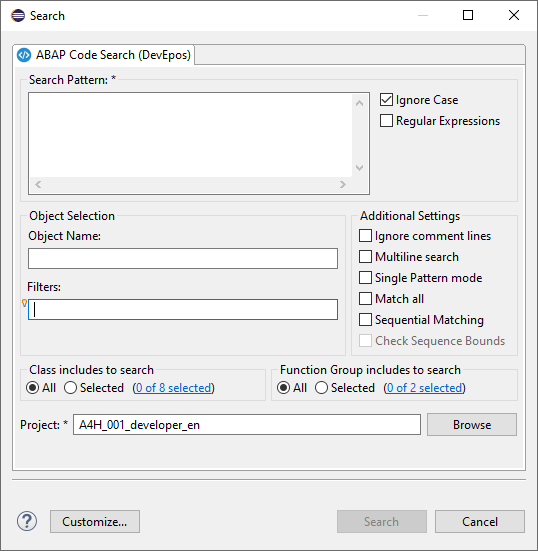
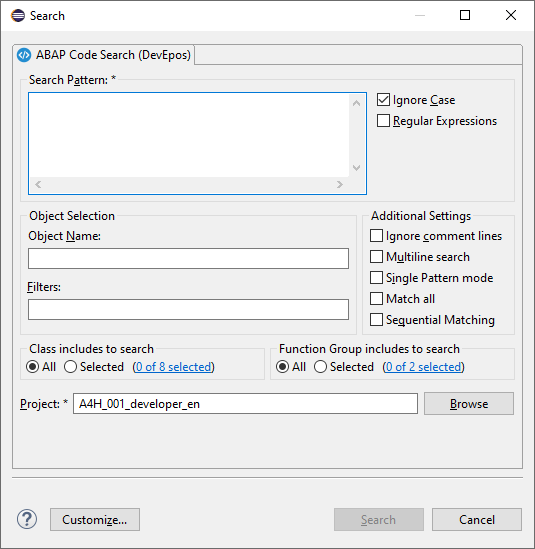
revert(seq-matching): remove "Check Sequence Bounds" setting
The feature is now implemented via inline control sequences in the patterns
so the setting is no longer needed

diff --git a/com.devepos.adt.codesearch.ui/html/code_search/search_dialog.html b/com.devepos.adt.codesearch.ui/html/code_search/search_dialog.html
@@ -204,19 +204,19 @@
 			considering their order. <br>If this checkbox is not set the
 			system will execute an OR search between all lines of the pattern
 			individually</li>
-		<li><em>Sequential Matching</em> <br> Checkbox is only
-			relevant if the pattern contains more than one line. If this checkbox
-			is set the system will search for source code files which contain all
-			patterns listed in the search pattern text area <b>considering
-				their order</b>. <br>If this checkbox is not set the system will
-			execute an OR search between all lines of the pattern individually</li>
-		<li><em>Check Seqeuence Bounds</em> <br>This setting is only
-			relevant for <em>Sequential Matching</em>.<br> If enabled the
-			first and last given pattern will set the range in the source code
-			where the patterns between have to occur.</li>
+		<li><a href="special_search_modes.html" class="link"><em>Sequential
+					Matching</em></a> <br> Checkbox is only relevant if the pattern
+			contains more than one line. If this checkbox is set the system will
+			search for source code files which contain all patterns listed in the
+			search pattern text area <b>considering their order</b>. <br>If
+			this checkbox is not set the system will execute an OR search between
+			all lines of the pattern individually</li>
 	</ul>
 
-	<h3>Related Information</h3>
+	<h3 class="heading">Related Information</h3>
+	<div>
+		<a class="link" href="special_search_modes.html">Special Search Modes</a>
+	</div>
 	<div>
 		<a class="link" href="search_result.html">Search Result</a>
 	</div>

diff --git a/com.devepos.adt.codesearch.ui/html/code_search/special_search_modes.html b/com.devepos.adt.codesearch.ui/html/code_search/special_search_modes.html
@@ -1,0 +1,22 @@
+<!DOCTYPE html>
+<html id="doc-page">
+<head>
+<link rel="stylesheet" type="text/css" href="../../css/main.css" />
+<meta http-equiv="Content-Type" content="text/html; charset=utf-8" />
+<title>Special Search Modes</title>
+</head>
+<body id="doc-body">
+	<h2 class="heading">Special Search Modes</h2>
+	<h3 class="heading">Sequential Matching</h3>
+	<p>
+		To allow even more refined searches you can enable the setting <em>Sequential
+			Matching</em> in the <em>Search
+			Dialog</em><br><br> TODO
+	</p>
+
+	<h3 class="heading">Related Information</h3>
+	<div>
+		<a class="link" href="search_dialog.html">Search Dialog</a>
+	</div>
+</body>
+</html>

diff --git a/com.devepos.adt.codesearch.ui/src/com/devepos/adt/cst/ui/internal/codesearch/CodeSearchDialog.java b/com.devepos.adt.codesearch.ui/src/com/devepos/adt/cst/ui/internal/codesearch/CodeSearchDialog.java
@@ -74,7 +74,6 @@ public class CodeSearchDialog extends DialogPage implements ISearchPage,
   private Button matchAllPatterns;
   private Button ignoreCommentLinesCheck;
   private Button sequentialMatchingCheck;
-  private Button sequenceBoundsOption;
   private IncludeFlagsRadioButtonGroup classIncludeConfigGroup;
   private IncludeFlagsRadioButtonGroup fugrIncludeConfigGroup;
 
@@ -187,7 +186,6 @@ public class CodeSearchDialog extends DialogPage implements ISearchPage,
     ignoreCommentLinesCheck.setSelection(querySpecs.isIgnoreCommentLines());
     ignoreCaseCheck.setSelection(querySpecs.isIgnoreCaseCheck());
     sequentialMatchingCheck.setSelection(querySpecs.isSequentialMatching());
-    sequenceBoundsOption.setSelection(querySpecs.isCheckSequenceBounds());
 
     updateOptionEnabledment();
 
@@ -217,7 +215,6 @@ public class CodeSearchDialog extends DialogPage implements ISearchPage,
     querySpecs.setObjectScopeFilters(filterHandler.getSearchFiltersAsStringMap(
         objectScopeFilterText, FilterName.getContentAssistToUriParamNameMap(), ","),
         objectScopeFilterText);
-    querySpecs.setCheckSequenceBounds(sequenceBoundsOption.getSelection());
     querySpecs.setIgnoreCaseCheck(ignoreCaseCheck.getSelection());
     querySpecs.setIgnoreCommentLines(ignoreCommentLinesCheck.getSelection());
     querySpecs.setObjectNames(objectNameInput.getText());
@@ -258,16 +255,6 @@ public class CodeSearchDialog extends DialogPage implements ISearchPage,
     sequentialMatchingCheck.setToolTipText(
         Messages.CodeSearchDialog_seqeuentialMatchingOption_xtol);
     sequentialMatchingCheck.addSelectionListener(widgetSelectedAdapter(e -> {
-      updateOptionSelection();
-      updateOptionEnabledment();
-    }));
-
-    sequenceBoundsOption = new Button(group, SWT.CHECK);
-    sequenceBoundsOption.setEnabled(false);
-    sequenceBoundsOption.setText(Messages.CodeSearchDialog_checkSequenceBoundsOption_xchk);
-    sequenceBoundsOption.setToolTipText(
-        Messages.CodeSearchDialog_checkSequenceBoundsOption_xtol);
-    sequenceBoundsOption.addSelectionListener(widgetSelectedAdapter(e -> {
       updateOptionSelection();
       updateOptionEnabledment();
     }));
@@ -542,7 +529,6 @@ public class CodeSearchDialog extends DialogPage implements ISearchPage,
     boolean isSequentialMatching = sequentialMatchingCheck.getSelection();
 
     singlePattern.setEnabled(!isSequentialMatching);
-    sequenceBoundsOption.setEnabled(isSequentialMatching);
     sequentialMatchingCheck.setEnabled(!isSinglePattern);
 
     if (!isSinglePattern && !isSequentialMatching) {

diff --git a/com.devepos.adt.codesearch.ui/src/com/devepos/adt/cst/ui/internal/codesearch/CodeSearchQuerySpecification.java b/com.devepos.adt.codesearch.ui/src/com/devepos/adt/cst/ui/internal/codesearch/CodeSearchQuerySpecification.java
@@ -36,7 +36,6 @@ public class CodeSearchQuerySpecification {
   private boolean matchAllPatterns;
   private boolean sequentialMatching;
   private boolean multilineSearchOption;
-  private boolean checkSequenceBounds;
 
   private boolean readPackageHierarchy;
 
@@ -84,9 +83,6 @@ public class CodeSearchQuerySpecification {
     }
     if (sequentialMatching) {
       uriParameters.put(SearchParameter.SEQUENTIAL_MATCHING.getUriName(), true);
-      if (checkSequenceBounds) {
-        uriParameters.put(SearchParameter.CHECK_SEQUENCE_BOUNDS.getUriName(), true);
-      }
     }
     uriParameters.put(SearchParameter.CLASS_INCLUDES.getUriName(), getClassIncludesParam()
         .getUriParamValue());
@@ -171,10 +167,6 @@ public class CodeSearchQuerySpecification {
     return restrictString ? getShortQueryString() : getLongQueryString();
   }
 
-  public boolean isCheckSequenceBounds() {
-    return checkSequenceBounds;
-  }
-
   public boolean isIgnoreCaseCheck() {
     return ignoreCaseCheck;
   }
@@ -208,10 +200,6 @@ public class CodeSearchQuerySpecification {
 
   public boolean isUseRegExp() {
     return useRegExp;
-  }
-
-  public void setCheckSequenceBounds(boolean checkSequenceBounds) {
-    this.checkSequenceBounds = checkSequenceBounds;
   }
 
   public void setClassIncludesParam(final IncludeFlagsParameter classIncludesParam) {
@@ -324,7 +312,7 @@ public class CodeSearchQuerySpecification {
       query.append(Messages.CodeSearchQuerySpecification_patternQueryPart_xtol);
       query.append("\n   ");
       query.append(singlePattern ? patterns.replaceAll(Text.DELIMITER, ESCAPED_LINE_BREAK_STR)
-          : patterns.replaceAll(Text.DELIMITER, ","));
+          : patterns.replaceAll(Text.DELIMITER, ",\n   "));
       if (!StringUtil.isBlank(objectNames)) {
         query.append("\n");
         query.append(Messages.CodeSearchQuerySpecification_objectNameQueryPart_xtol);

diff --git a/com.devepos.adt.codesearch.ui/src/com/devepos/adt/cst/ui/internal/codesearch/SearchParameter.java b/com.devepos.adt.codesearch.ui/src/com/devepos/adt/cst/ui/internal/codesearch/SearchParameter.java
@@ -12,8 +12,7 @@ public enum SearchParameter {
   SINGLE_PATTERN("singlePattern"),
   SCOPE_ID("scopeId"),
   SCOPE_OFFSET("scopeOffset"),
-  SEQUENTIAL_MATCHING("seqMatching"),
-  CHECK_SEQUENCE_BOUNDS("checkSeqBounds");
+  SEQUENTIAL_MATCHING("seqMatching");
 
   private String uriParamName;
 
